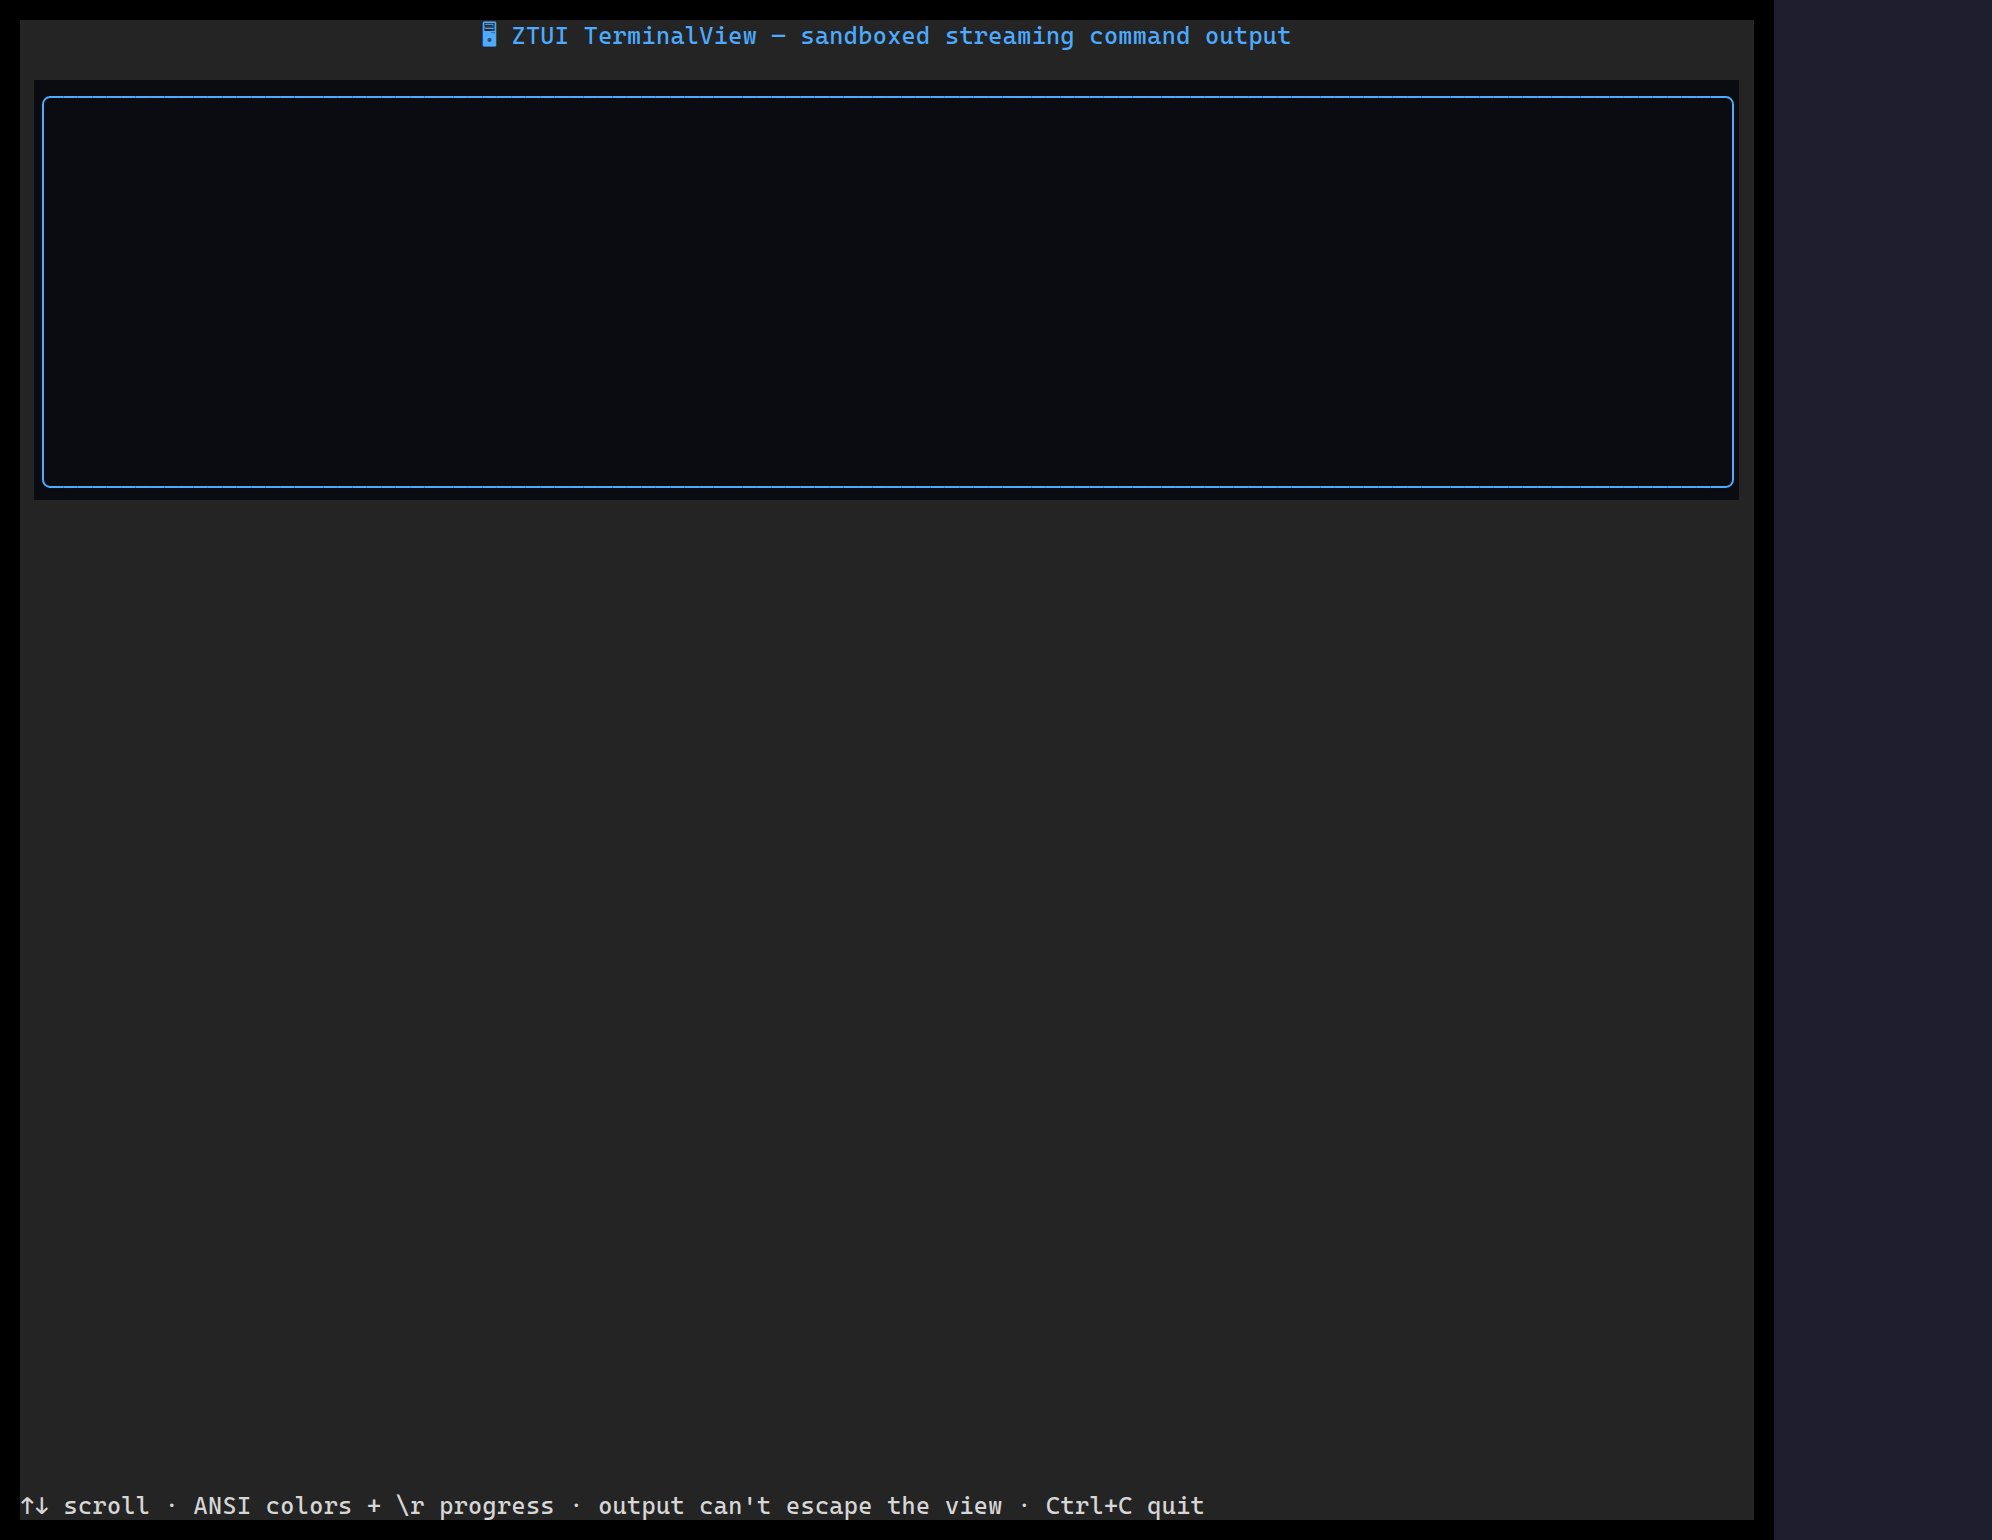
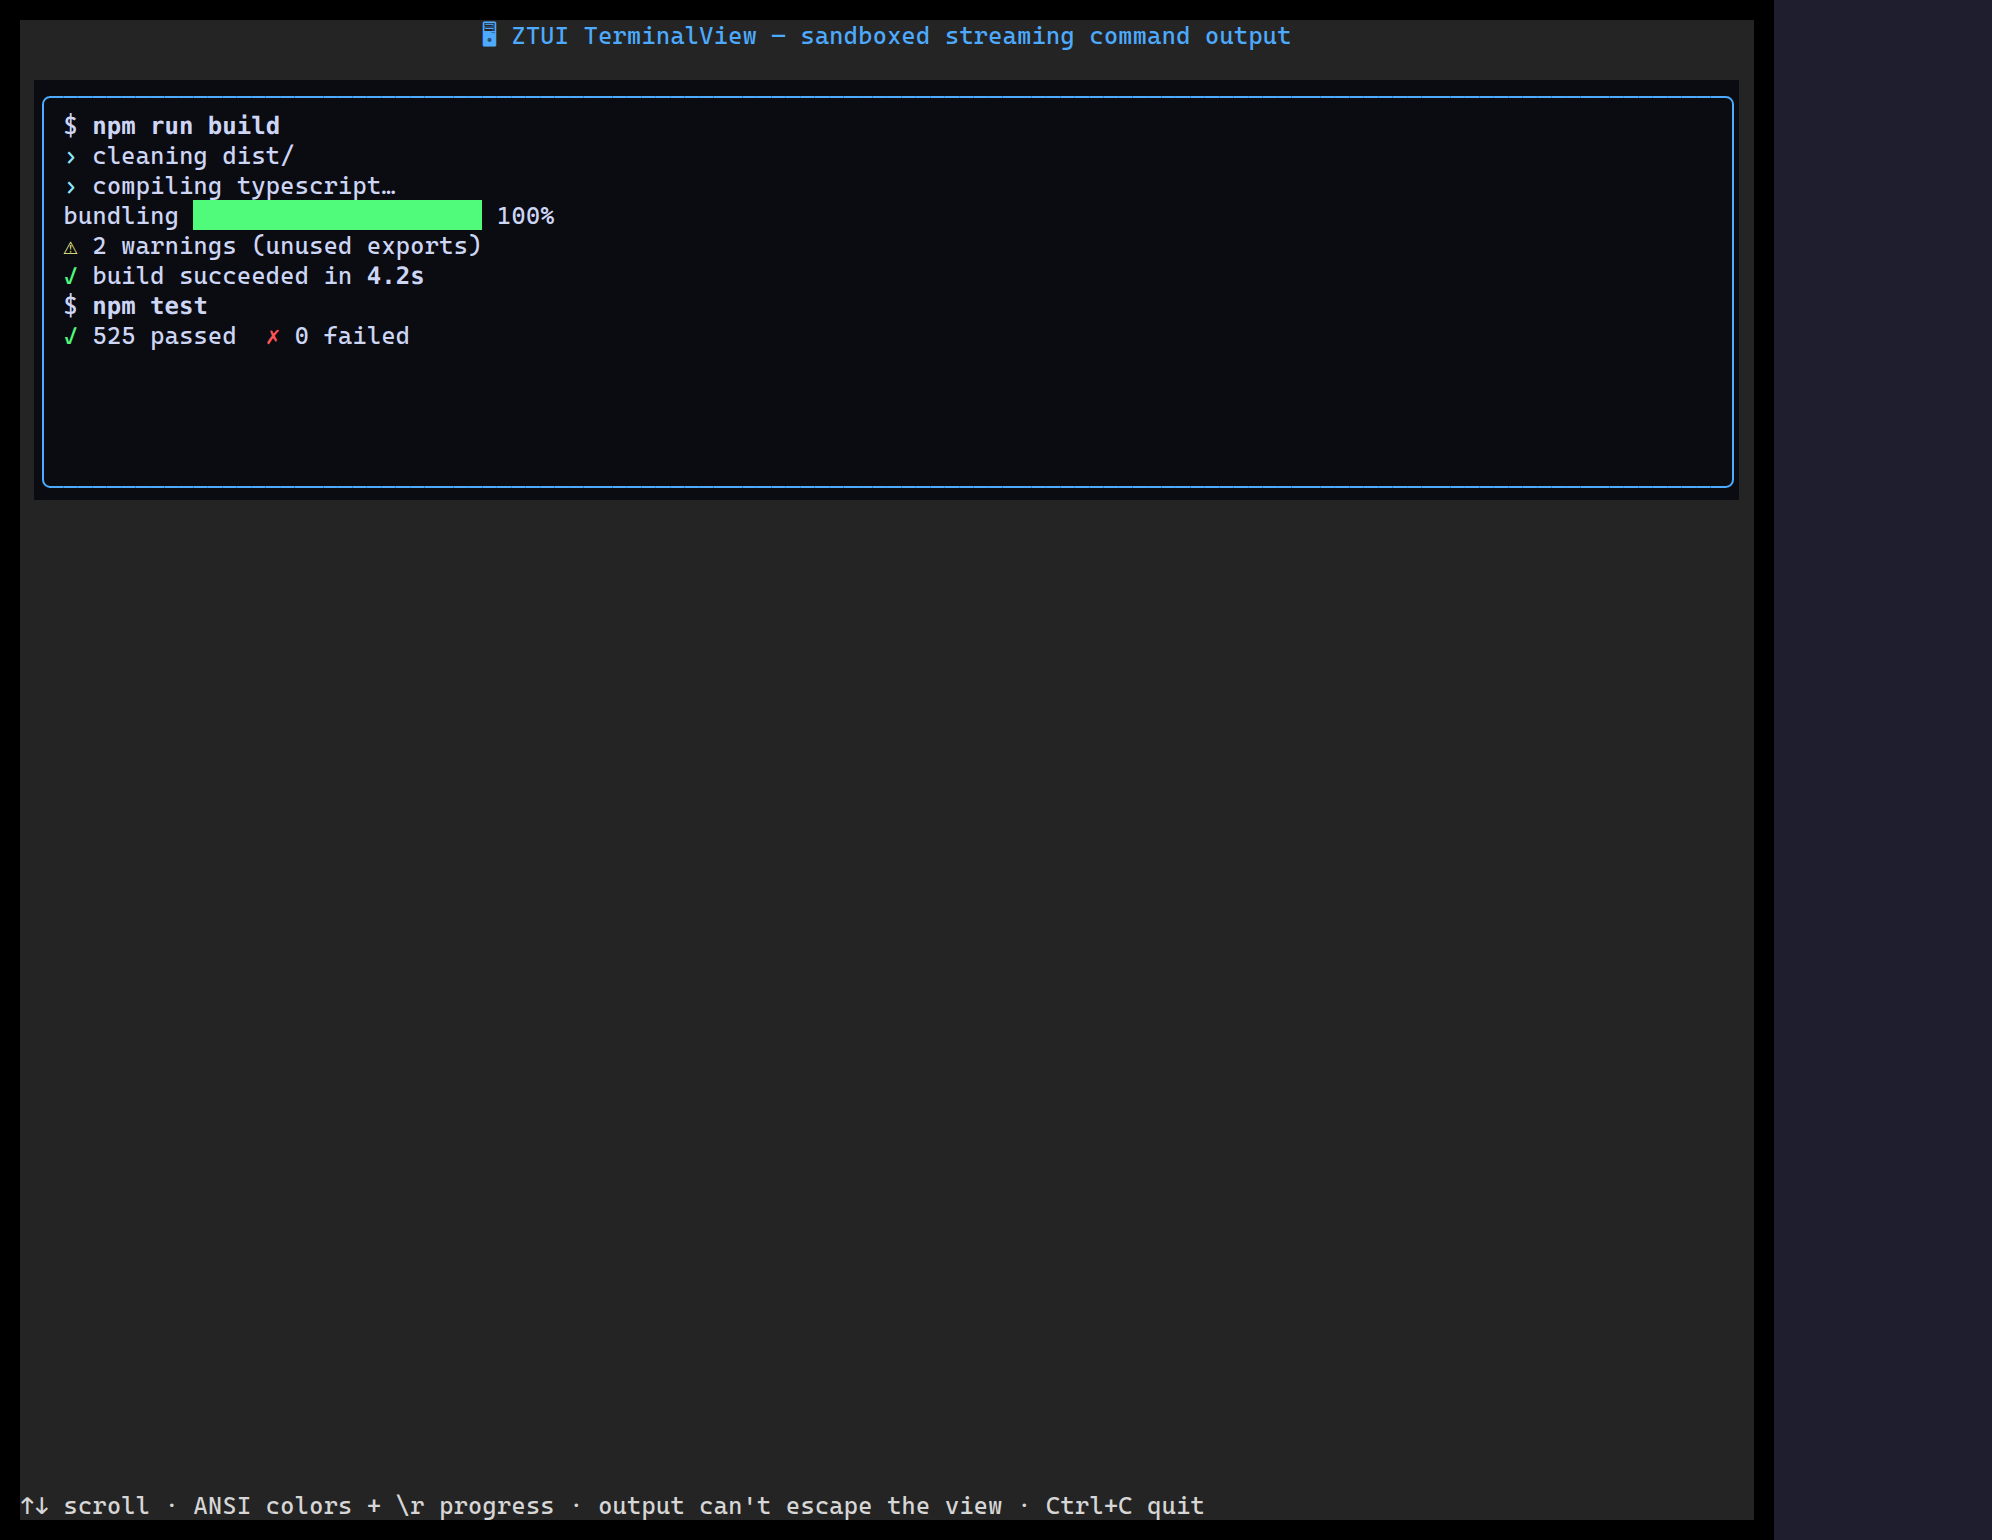
docs(site): wait for the TerminalView demo's streamed session before capture
The terminal demo plays a ~5s build/test session via timers; without a wait the
screenshot caught an empty view. Give it a 5.5s wait so the shot shows the full
output (progress bar, warnings, test summary) with ANSI colors.

Changed region(s): [[0.0311, 0.0623, 0.2801, 0.2182]]

diff --git a/scripts/docs-screenshots.ts b/scripts/docs-screenshots.ts
@@ -41,7 +41,7 @@ const BATCH: Record<string, { cols: number; rows: number; wait?: number }> = {
   status: { cols: 56, rows: 16 },
   collapsible: { cols: 64, rows: 16 },
   // Batch 2
-  terminal: { cols: 72, rows: 18 },
+  terminal: { cols: 72, rows: 18, wait: 5500 }, // plays a ~5s build/test session
   qa: { cols: 64, rows: 16 },
   rich: { cols: 72, rows: 18 },
   splitview: { cols: 72, rows: 18 },